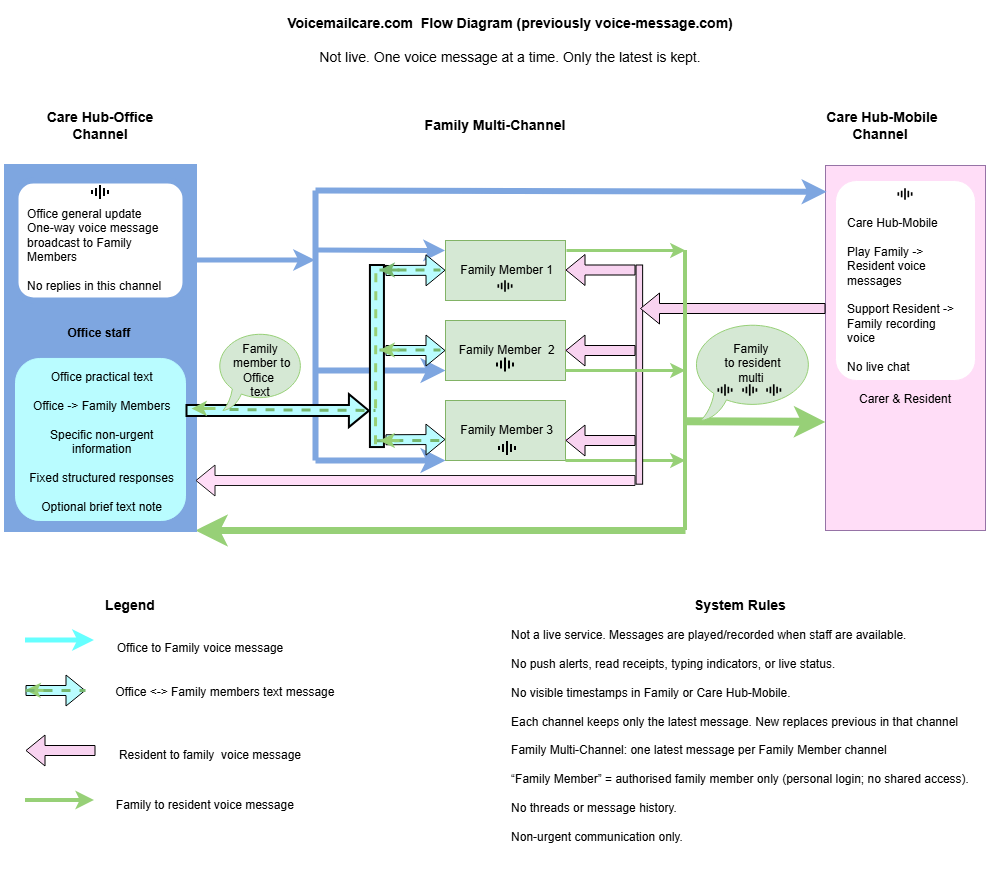
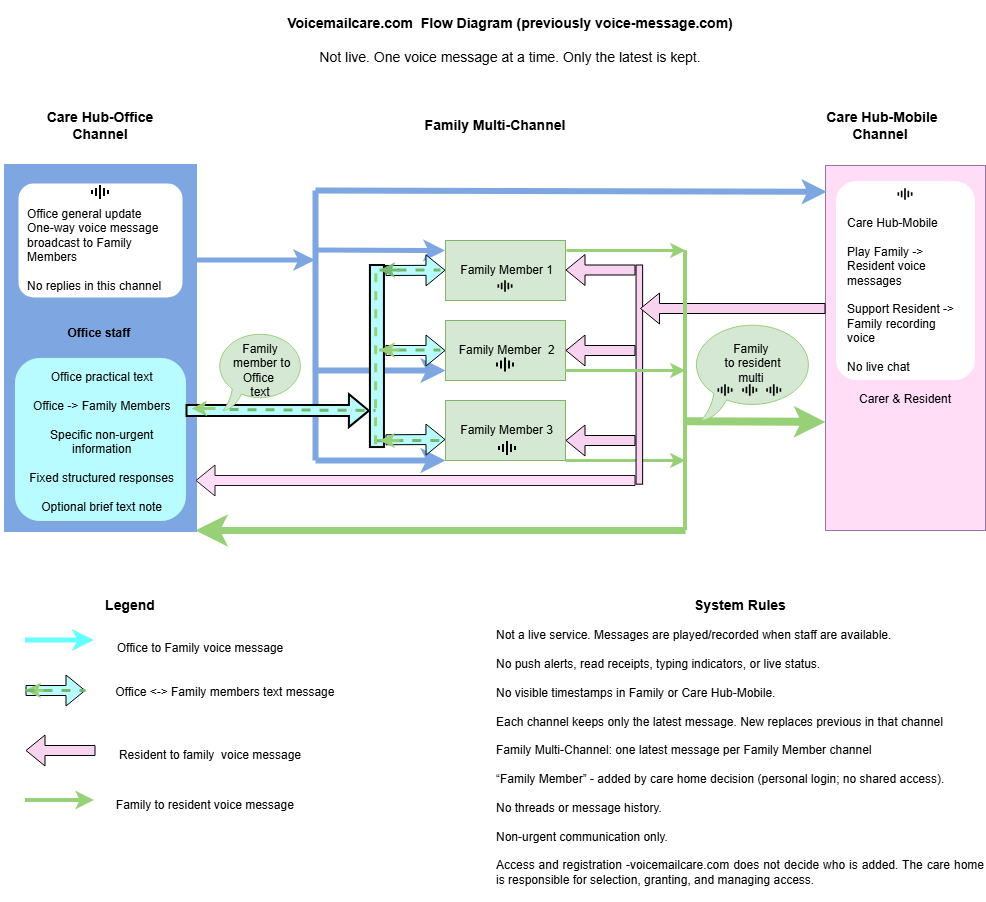
=update_diagram_and_registration_wording

diff --git a/app.py b/app.py
@@ -1707,7 +1707,9 @@ def render_office_family_registration_form(
             "for determining, granting, and maintaining their access to the resident.",
             key="office_family_authorisation_confirm",
         )
-        st.caption("voicemailcare.com does not decide who is authorised. The care home is responsible for that decision.")
+        st.caption(
+            "voicemailcare.com does not decide who may be added. The care home is responsible for that decision."
+        )
         st.caption(
             "Security note: after sending an invite, wait for the countdown before retrying."
         )